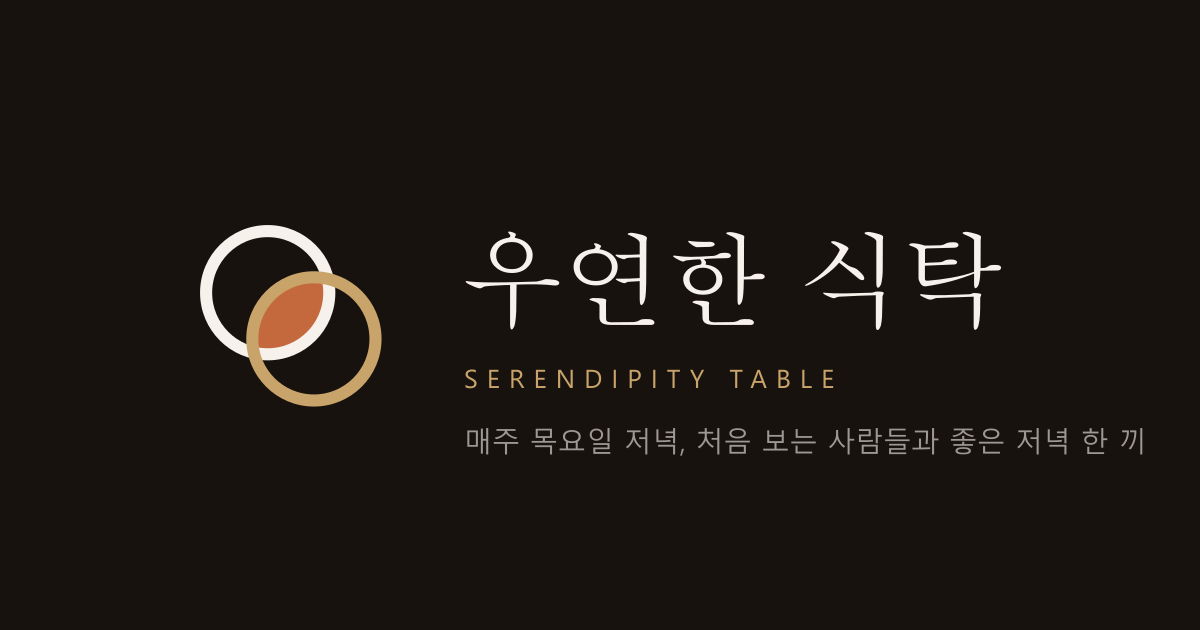
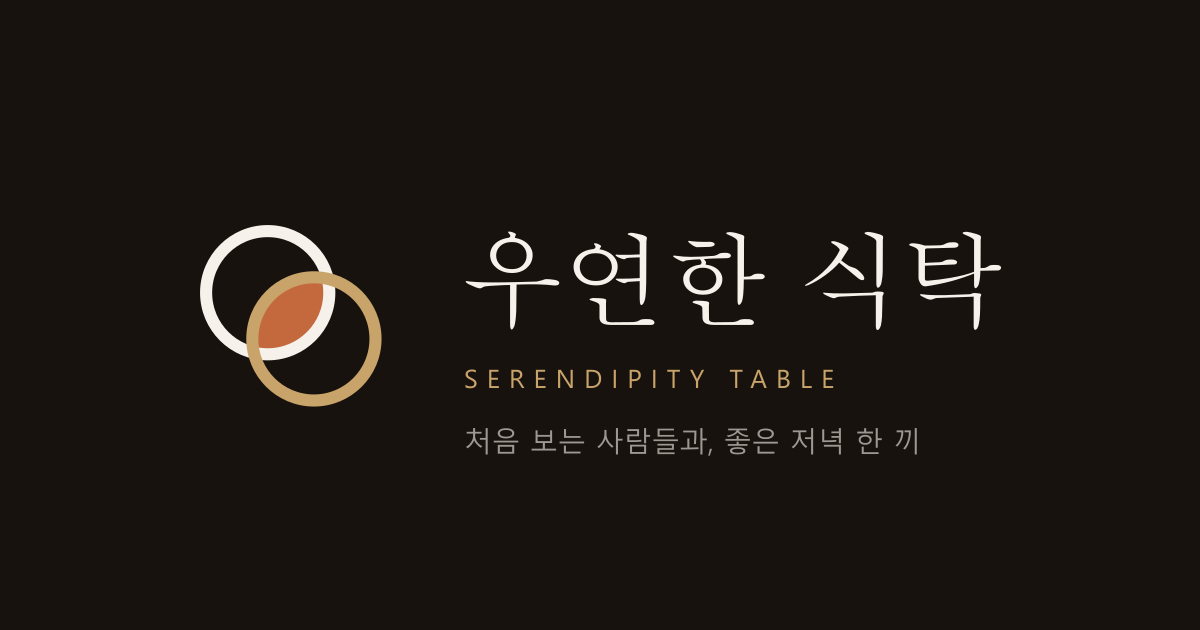
No fixed weekday in copy: dates come from the next open round; main panel line '낯선 이름이, 반가운 얼굴이 되는 저녁'

Changed region(s): [[0.37, 0.6635, 0.9558, 0.7238]]

diff --git a/web/src/app/login/page.tsx b/web/src/app/login/page.tsx
@@ -8,11 +8,13 @@ import { demoAccounts } from "./actions";
 
 async function loadStats() {
   const db = createAdminClient();
-  const [{ count: people }, { data: regions }] = await Promise.all([
+  const [{ count: people }, { data: regions }, { data: next }] = await Promise.all([
     db.from("profiles").select("id", { count: "exact", head: true }).eq("role", "PARTICIPANT"),
     db.from("code_values").select("code").eq("code_group", "REGION").neq("code", "ETC"),
+    db.from("rounds").select("start_at").eq("status", "OPEN").gt("apply_deadline_at", new Date().toISOString()).order("event_date").limit(1).maybeSingle(),
   ]);
-  return { people: people ?? 0, regions: regions?.length ?? 0 };
+  const nextAt = next ? new Intl.DateTimeFormat("ko-KR", { timeZone: "Asia/Seoul", month: "long", day: "numeric", weekday: "short", hour: "2-digit", minute: "2-digit", hour12: false }).format(new Date(next.start_at)) : null;
+  return { people: people ?? 0, regions: regions?.length ?? 0, nextAt };
 }
 
 export default async function LoginPage({ searchParams }: PageProps<"/login">) {
@@ -37,17 +39,17 @@ export default async function LoginPage({ searchParams }: PageProps<"/login">) {
       <div className="relative z-10 flex flex-1 flex-col lg:min-h-dvh lg:flex-row lg:items-stretch">
         {/* 소개 */}
         <section className="-mt-36 px-6 lg:mt-0 lg:flex lg:flex-1 lg:flex-col lg:justify-end lg:px-14 lg:pb-12">
-          <Eyebrow tone="light">Every Thursday · 7 PM</Eyebrow>
+          <Eyebrow tone="light">Serendipity Table</Eyebrow>
           <h1 className="mt-3 font-serif text-[32px] font-bold leading-[1.25] tracking-[-0.02em] lg:text-[44px]">
             처음 보는 사람들과,<br />좋은 저녁 한 끼
           </h1>
           <p className="mt-4 max-w-md text-[15px] leading-relaxed text-cream/75">
-            매주 목요일 저녁, 취향이 맞는 4~6명이 한 식탁에 앉아요. 자리 배정과 식당 예약, 단체방 안내는 우연한 식탁이 맡아요.
+            취향이 맞는 4~6명이 한 식탁에 둘러앉아요. 자리 배정과 식당 예약, 단체방 안내는 우연한 식탁이 맡아요.
           </p>
           <dl className="mt-6 flex flex-wrap gap-x-6 gap-y-2 text-[13px] text-cream/85">
             <div className="flex items-center gap-1.5"><Users className="h-4 w-4 text-gold" strokeWidth={1.75} /><dt className="sr-only">신청자</dt><dd className="tabular">{stats.people.toLocaleString()}명이 함께했어요</dd></div>
             <div className="flex items-center gap-1.5"><MapPin className="h-4 w-4 text-gold" strokeWidth={1.75} /><dt className="sr-only">지역</dt><dd>서울 {stats.regions}개 지역</dd></div>
-            <div className="flex items-center gap-1.5"><CalendarDays className="h-4 w-4 text-gold" strokeWidth={1.75} /><dt className="sr-only">일정</dt><dd>매주 목요일 19시</dd></div>
+            <div className="flex items-center gap-1.5"><CalendarDays className="h-4 w-4 text-gold" strokeWidth={1.75} /><dt className="sr-only">다음 식탁</dt><dd>{stats.nextAt ? `다음 식탁 ${stats.nextAt}` : "다음 식탁 준비 중"}</dd></div>
           </dl>
         </section>
 

diff --git a/web/src/app/layout.tsx b/web/src/app/layout.tsx
@@ -9,8 +9,8 @@ export const metadata: Metadata = {
   // Absolute base for the link-preview image (opengraph-image.png) when the address is shared.
   metadataBase: new URL(process.env.SITE_URL?.startsWith("https://") ? process.env.SITE_URL : "https://serendipity-table-zeta.vercel.app"),
   title: "우연한 식탁",
-  openGraph: { title: "우연한 식탁", description: "매주 목요일 저녁, 처음 보는 사람들과 좋은 저녁 한 끼", locale: "ko_KR", type: "website" },
-  description: "매주 목요일 저녁, 처음 보는 사람들과 좋은 저녁 한 끼",
+  openGraph: { title: "우연한 식탁", description: "취향이 맞는 4~6명이 한 식탁에 둘러앉는 저녁 — 처음 보는 사람들과 좋은 저녁 한 끼", locale: "ko_KR", type: "website" },
+  description: "취향이 맞는 4~6명이 한 식탁에 둘러앉는 저녁 — 처음 보는 사람들과 좋은 저녁 한 끼",
   // Home-screen install (F-40): iPhone needs the app installed before it can receive web push.
   appleWebApp: { capable: true, title: "우연한 식탁", statusBarStyle: "default" },
   icons: { icon: "/icons/icon-192.png", apple: "/icons/apple-touch-icon.png" },

diff --git a/web/src/app/(participant)/layout.tsx b/web/src/app/(participant)/layout.tsx
@@ -25,8 +25,8 @@ export default async function ParticipantLayout({ children }: LayoutProps<"/">) 
           <Endorsement tone="light" />
         </div>
         <div className="max-w-md">
-          <Eyebrow tone="light">Every Thursday · 7 PM</Eyebrow>
-          <h2 className="mt-4 font-serif text-[42px] font-bold leading-[1.25] tracking-[-0.02em]">이번 주 목요일,<br />우연이 차려 둔 자리</h2>
+          <Eyebrow tone="light">Serendipity Table</Eyebrow>
+          <h2 className="mt-4 font-serif text-[42px] font-bold leading-[1.25] tracking-[-0.02em]">낯선 이름이,<br />반가운 얼굴이 되는 저녁</h2>
           <p className="mt-4 text-[15px] leading-relaxed text-cream/75">자리 배정부터 식당 예약, 단체방 안내까지 우연한 식탁이 준비해 둘게요. 오셔서 즐기기만 하면 돼요.</p>
           {next && (
             <p className="mt-8 inline-flex items-center gap-2 rounded-full border border-gold/30 bg-gold/10 px-4 py-2 text-[13px] text-cream/90">

diff --git a/web/src/app/(participant)/home/page.tsx b/web/src/app/(participant)/home/page.tsx
@@ -20,7 +20,7 @@ const STEPS = [
   { icon: WalletCards, title: "신청·결제", body: "날짜와 지역을 고르고 이용권으로 결제해요." },
   { icon: CalendarCheck, title: "자동 매칭", body: "행사 3일 전 18시, 취향이 맞는 4~6명으로 묶어요." },
   { icon: MessageCircle, title: "확정 안내", body: "식당·시간을 알려 드리고 단체방이 열려요." },
-  { icon: UtensilsCrossed, title: "목요일 저녁", body: "처음 보는 사람들과 좋은 저녁 한 끼." },
+  { icon: UtensilsCrossed, title: "함께하는 저녁", body: "처음 보는 사람들과 좋은 저녁 한 끼." },
 ];
 
 export default async function HomePage() {

diff --git a/web/src/app/manifest.ts b/web/src/app/manifest.ts
@@ -5,7 +5,7 @@ export default function manifest(): MetadataRoute.Manifest {
   return {
     name: "우연한 식탁",
     short_name: "우연한 식탁",
-    description: "매주 목요일 저녁, 처음 보는 사람들과 좋은 저녁 한 끼",
+    description: "처음 보는 사람들과 좋은 저녁 한 끼",
     start_url: "/home",
     scope: "/",
     display: "standalone",
